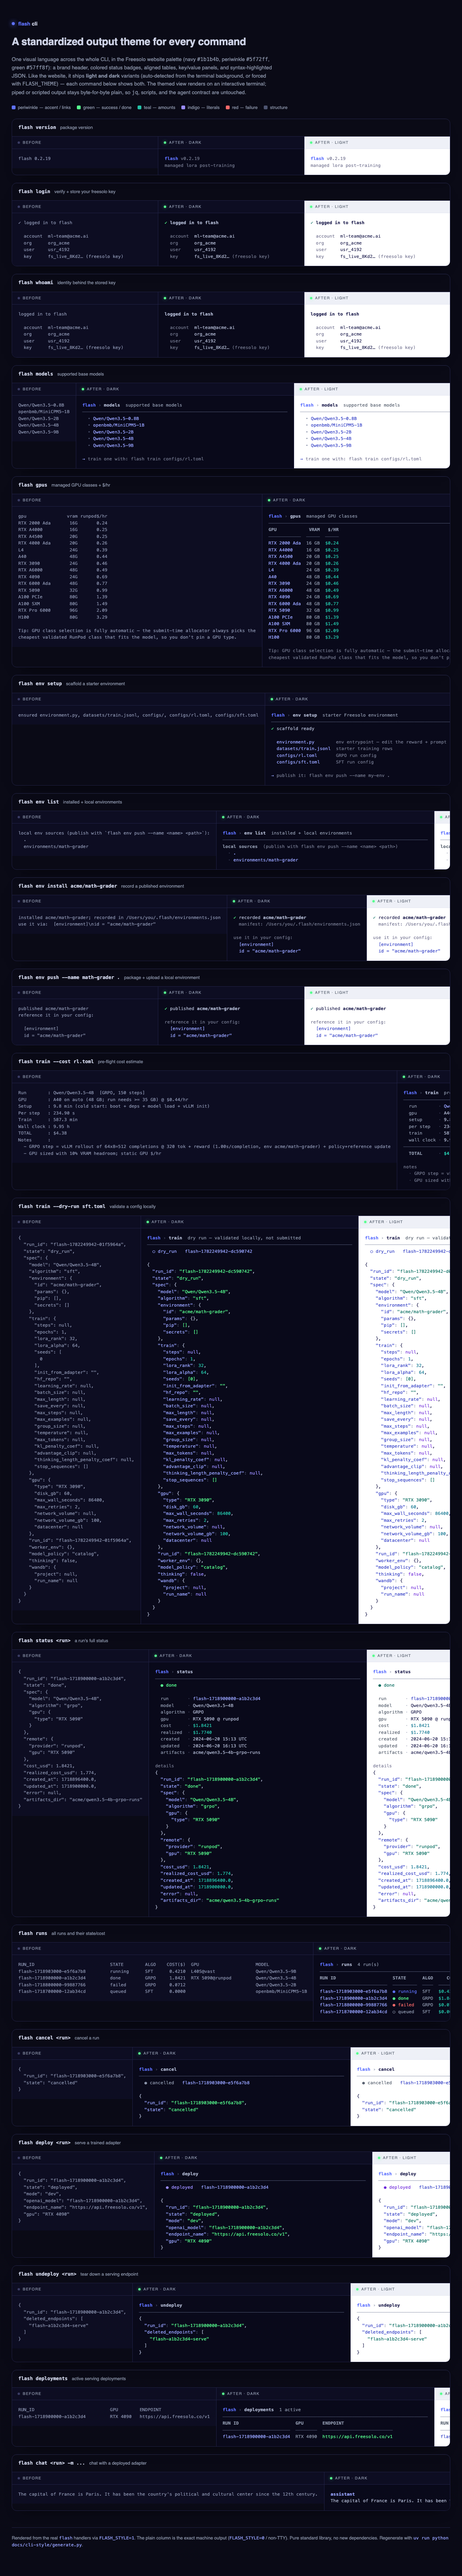
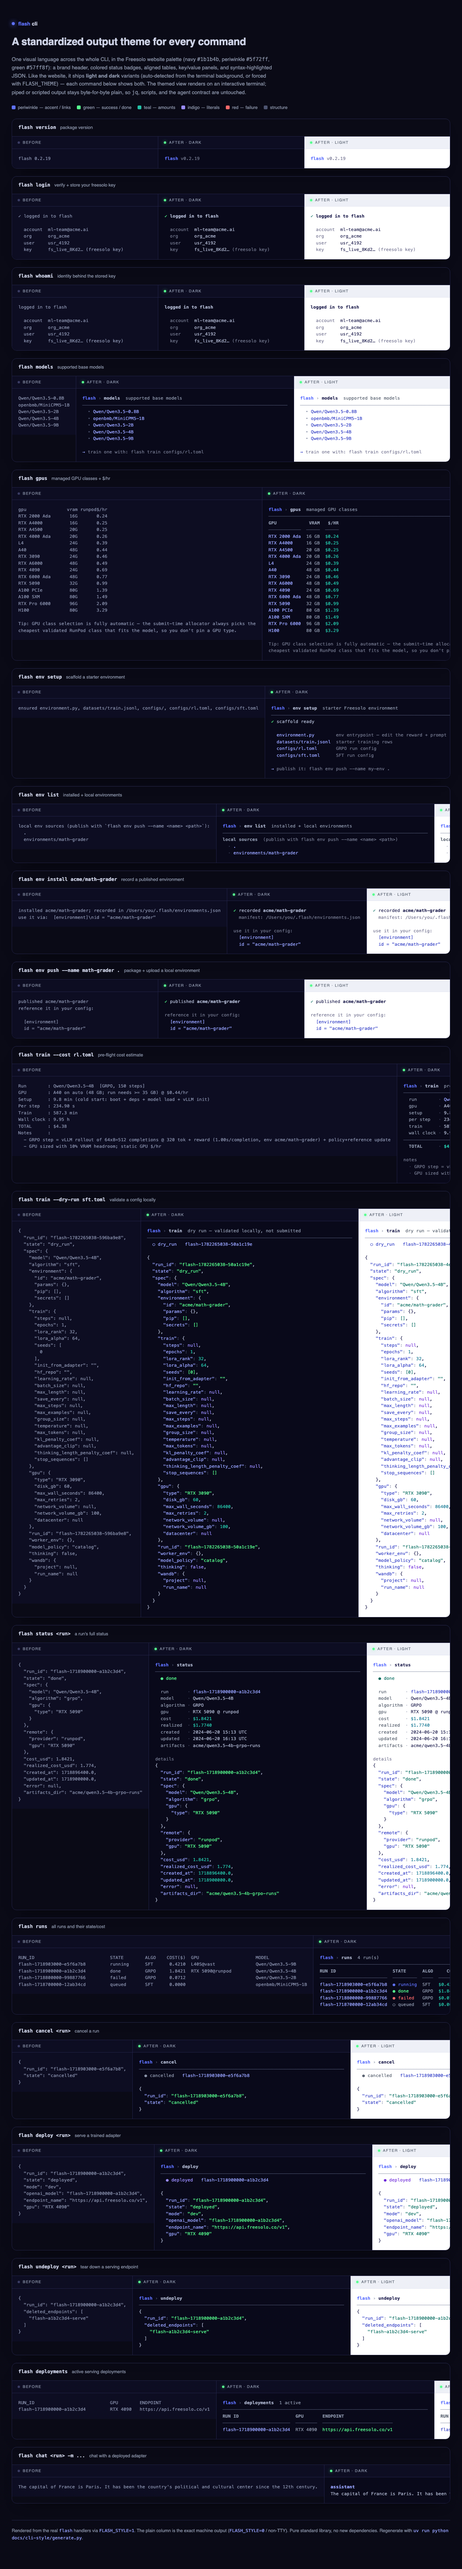
style(cli): drop the version tagline subtext

diff --git a/docs/cli-style/index.html b/docs/cli-style/index.html
@@ -58,9 +58,7 @@ footer code{color:var(--accent2)}
     <span><i class="sw" style="background:#4d5470"></i>structure</span>
   </div>
 </header>
-<section class="card"><div class="head"><code>flash version</code><span class="sub">package version</span></div><div class="cols"><div class="col before"><div class="tag"><span class="pill"></span>before</div><pre>flash 0.2.19</pre></div><div class="col after"><div class="tag"><span class="pill"></span>after · dark</div><pre><span style="color:#5f72ff;font-weight:700">flash</span> <span style="opacity:.62">v0.2.19</span>
-<span style="opacity:.62">managed lora post-training</span></pre></div><div class="col after light"><div class="tag"><span class="pill"></span>after · light</div><pre><span style="color:#5f72ff;font-weight:700">flash</span> <span style="opacity:.62">v0.2.19</span>
-<span style="opacity:.62">managed lora post-training</span></pre></div></div></section><section class="card"><div class="head"><code>flash login</code><span class="sub">verify + store your freesolo key</span></div><div class="cols"><div class="col before"><div class="tag"><span class="pill"></span>before</div><pre>✓ logged in to flash
+<section class="card"><div class="head"><code>flash version</code><span class="sub">package version</span></div><div class="cols"><div class="col before"><div class="tag"><span class="pill"></span>before</div><pre>flash 0.2.19</pre></div><div class="col after"><div class="tag"><span class="pill"></span>after · dark</div><pre><span style="color:#5f72ff;font-weight:700">flash</span> <span style="opacity:.62">v0.2.19</span></pre></div><div class="col after light"><div class="tag"><span class="pill"></span>after · light</div><pre><span style="color:#5f72ff;font-weight:700">flash</span> <span style="opacity:.62">v0.2.19</span></pre></div></div></section><section class="card"><div class="head"><code>flash login</code><span class="sub">verify + store your freesolo key</span></div><div class="cols"><div class="col before"><div class="tag"><span class="pill"></span>before</div><pre>✓ logged in to flash
 
   account  ml-team@acme.ai
   org      org_acme
@@ -257,7 +255,7 @@ Notes      :
 <span style="opacity:.62">notes</span>
   <span style="color:#9aa1b5">·</span> <span style="opacity:.62">GRPO step = vLLM rollout of 64x8=512 completions @ 320 tok + reward (1.00s/completion, env acme/math-grader) + policy+reference update</span>
   <span style="color:#9aa1b5">·</span> <span style="opacity:.62">GPU sized with 10% VRAM headroom; static GPU $/hr</span></pre></div></div></section><section class="card"><div class="head"><code>flash train --dry-run sft.toml</code><span class="sub">validate a config locally</span></div><div class="cols"><div class="col before"><div class="tag"><span class="pill"></span>before</div><pre>{
-  &quot;run_id&quot;: &quot;flash-1782249942-01f5964a&quot;,
+  &quot;run_id&quot;: &quot;flash-1782265038-596ba9e8&quot;,
   &quot;state&quot;: &quot;dry_run&quot;,
   &quot;spec&quot;: {
     &quot;model&quot;: &quot;Qwen/Qwen3.5-4B&quot;,
@@ -301,7 +299,7 @@ Notes      :
       &quot;network_volume_gb&quot;: 100,
       &quot;datacenter&quot;: null
     },
-    &quot;run_id&quot;: &quot;flash-1782249942-01f5964a&quot;,
+    &quot;run_id&quot;: &quot;flash-1782265038-596ba9e8&quot;,
     &quot;worker_env&quot;: {},
     &quot;model_policy&quot;: &quot;catalog&quot;,
     &quot;thinking&quot;: false,
@@ -312,10 +310,10 @@ Notes      :
   }
 }</pre></div><div class="col after"><div class="tag"><span class="pill"></span>after · dark</div><pre><span style="color:#5f72ff;font-weight:700">flash</span> <span style="color:#4d5470">›</span> <span style="font-weight:700">train</span>  <span style="color:#8a93a8">dry run — validated locally, not submitted</span>
 <span style="color:#4d5470">────────────────────────────────────────────────────────────────────────────</span>
-  <span style="color:#97a3ff">○ dry_run</span>   <span style="color:#97a3ff">flash-1782249942-dc590742</span>
+  <span style="color:#97a3ff">○ dry_run</span>   <span style="color:#97a3ff">flash-1782265038-50a1c19e</span>
 
 {
-  <span style="color:#97a3ff">&quot;run_id&quot;</span><span style="color:#4d5470">:</span> <span style="color:#57ff8f">&quot;flash-1782249942-dc590742&quot;</span>,
+  <span style="color:#97a3ff">&quot;run_id&quot;</span><span style="color:#4d5470">:</span> <span style="color:#57ff8f">&quot;flash-1782265038-50a1c19e&quot;</span>,
   <span style="color:#97a3ff">&quot;state&quot;</span><span style="color:#4d5470">:</span> <span style="color:#57ff8f">&quot;dry_run&quot;</span>,
   <span style="color:#97a3ff">&quot;spec&quot;</span><span style="color:#4d5470">:</span> {
     <span style="color:#97a3ff">&quot;model&quot;</span><span style="color:#4d5470">:</span> <span style="color:#57ff8f">&quot;Qwen/Qwen3.5-4B&quot;</span>,
@@ -357,7 +355,7 @@ Notes      :
       <span style="color:#97a3ff">&quot;network_volume_gb&quot;</span><span style="color:#4d5470">:</span> <span style="color:#24c2a8">100</span>,
       <span style="color:#97a3ff">&quot;datacenter&quot;</span><span style="color:#4d5470">:</span> <span style="color:#9a8cff">null</span>
     },
-    <span style="color:#97a3ff">&quot;run_id&quot;</span><span style="color:#4d5470">:</span> <span style="color:#57ff8f">&quot;flash-1782249942-dc590742&quot;</span>,
+    <span style="color:#97a3ff">&quot;run_id&quot;</span><span style="color:#4d5470">:</span> <span style="color:#57ff8f">&quot;flash-1782265038-50a1c19e&quot;</span>,
     <span style="color:#97a3ff">&quot;worker_env&quot;</span><span style="color:#4d5470">:</span> {},
     <span style="color:#97a3ff">&quot;model_policy&quot;</span><span style="color:#4d5470">:</span> <span style="color:#57ff8f">&quot;catalog&quot;</span>,
     <span style="color:#97a3ff">&quot;thinking&quot;</span><span style="color:#4d5470">:</span> <span style="color:#9a8cff">false</span>,
@@ -368,10 +366,10 @@ Notes      :
   }
 }</pre></div><div class="col after light"><div class="tag"><span class="pill"></span>after · light</div><pre><span style="color:#5f72ff;font-weight:700">flash</span> <span style="color:#9aa1b5">›</span> <span style="font-weight:700">train</span>  <span style="color:#5b6472">dry run — validated locally, not submitted</span>
 <span style="color:#9aa1b5">────────────────────────────────────────────────────────────────────────────</span>
-  <span style="color:#3a46c8">○ dry_run</span>   <span style="color:#3a46c8">flash-1782249942-d049343e</span>
+  <span style="color:#3a46c8">○ dry_run</span>   <span style="color:#3a46c8">flash-1782265038-4e433c7a</span>
 
 {
-  <span style="color:#3a46c8">&quot;run_id&quot;</span><span style="color:#9aa1b5">:</span> <span style="color:#00695c">&quot;flash-1782249942-d049343e&quot;</span>,
+  <span style="color:#3a46c8">&quot;run_id&quot;</span><span style="color:#9aa1b5">:</span> <span style="color:#00695c">&quot;flash-1782265038-4e433c7a&quot;</span>,
   <span style="color:#3a46c8">&quot;state&quot;</span><span style="color:#9aa1b5">:</span> <span style="color:#00695c">&quot;dry_run&quot;</span>,
   <span style="color:#3a46c8">&quot;spec&quot;</span><span style="color:#9aa1b5">:</span> {
     <span style="color:#3a46c8">&quot;model&quot;</span><span style="color:#9aa1b5">:</span> <span style="color:#00695c">&quot;Qwen/Qwen3.5-4B&quot;</span>,
@@ -413,7 +411,7 @@ Notes      :
       <span style="color:#3a46c8">&quot;network_volume_gb&quot;</span><span style="color:#9aa1b5">:</span> <span style="color:#0e7490">100</span>,
       <span style="color:#3a46c8">&quot;datacenter&quot;</span><span style="color:#9aa1b5">:</span> <span style="color:#6d28d9">null</span>
     },
-    <span style="color:#3a46c8">&quot;run_id&quot;</span><span style="color:#9aa1b5">:</span> <span style="color:#00695c">&quot;flash-1782249942-d049343e&quot;</span>,
+    <span style="color:#3a46c8">&quot;run_id&quot;</span><span style="color:#9aa1b5">:</span> <span style="color:#00695c">&quot;flash-1782265038-4e433c7a&quot;</span>,
     <span style="color:#3a46c8">&quot;worker_env&quot;</span><span style="color:#9aa1b5">:</span> {},
     <span style="color:#3a46c8">&quot;model_policy&quot;</span><span style="color:#9aa1b5">:</span> <span style="color:#00695c">&quot;catalog&quot;</span>,
     <span style="color:#3a46c8">&quot;thinking&quot;</span><span style="color:#9aa1b5">:</span> <span style="color:#6d28d9">false</span>,

diff --git a/flash/cli/main/render.py b/flash/cli/main/render.py
@@ -368,9 +368,9 @@ def _color_json(obj, depth: int) -> str:
 
 
 def version(value: str) -> str:
-    """The wordmark + version + tagline."""
+    """The wordmark + version."""
     mark = _paint("flash", _ACCENT, "1")
-    return _safe(f"{mark} {_dim('v' + value)}\n{_dim('managed lora post-training')}")
+    return _safe(f"{mark} {_dim('v' + value)}")
 
 
 def models_table(rows: list[dict]) -> str:
